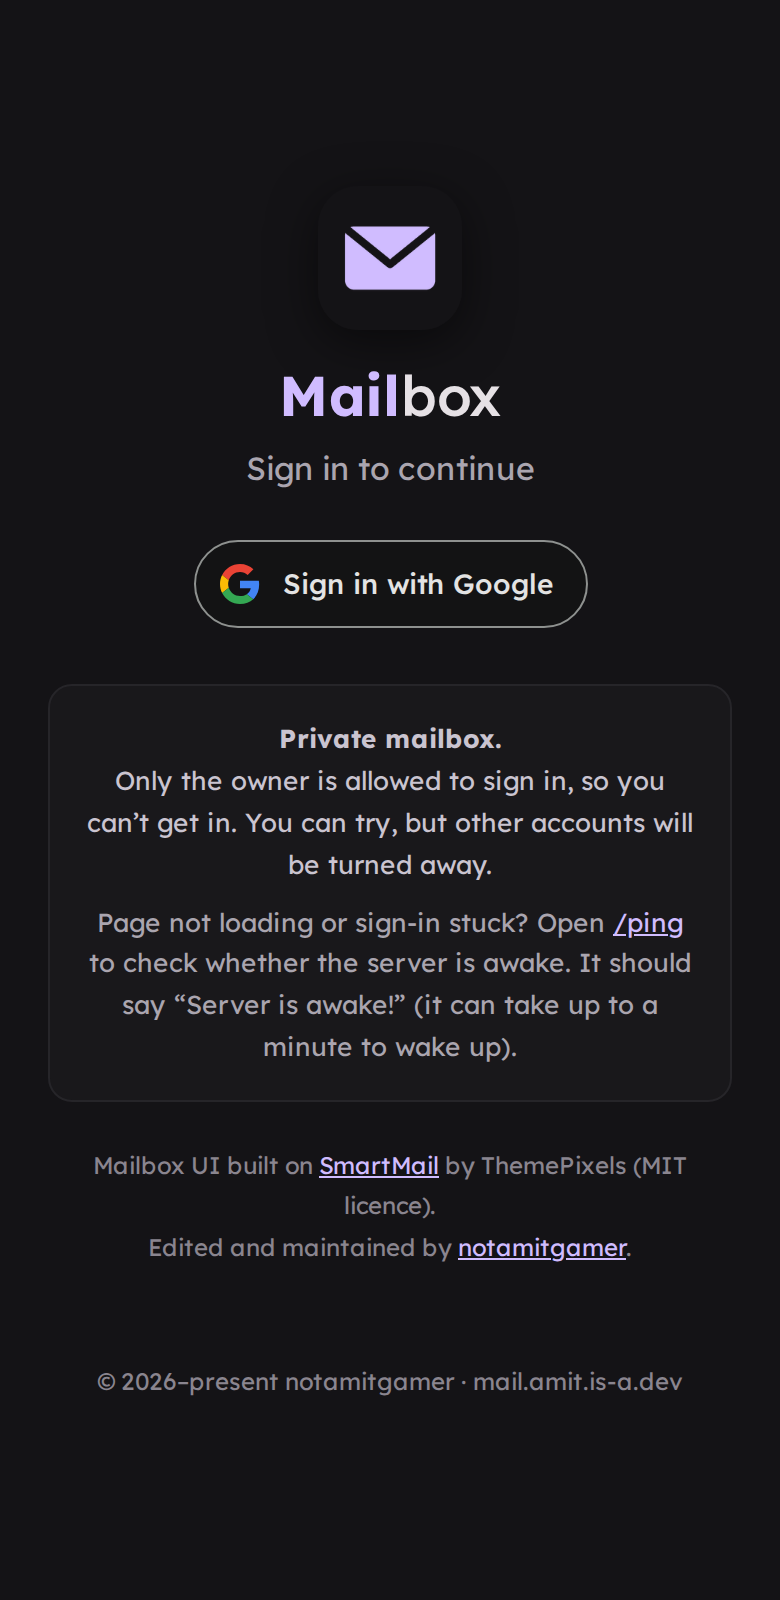
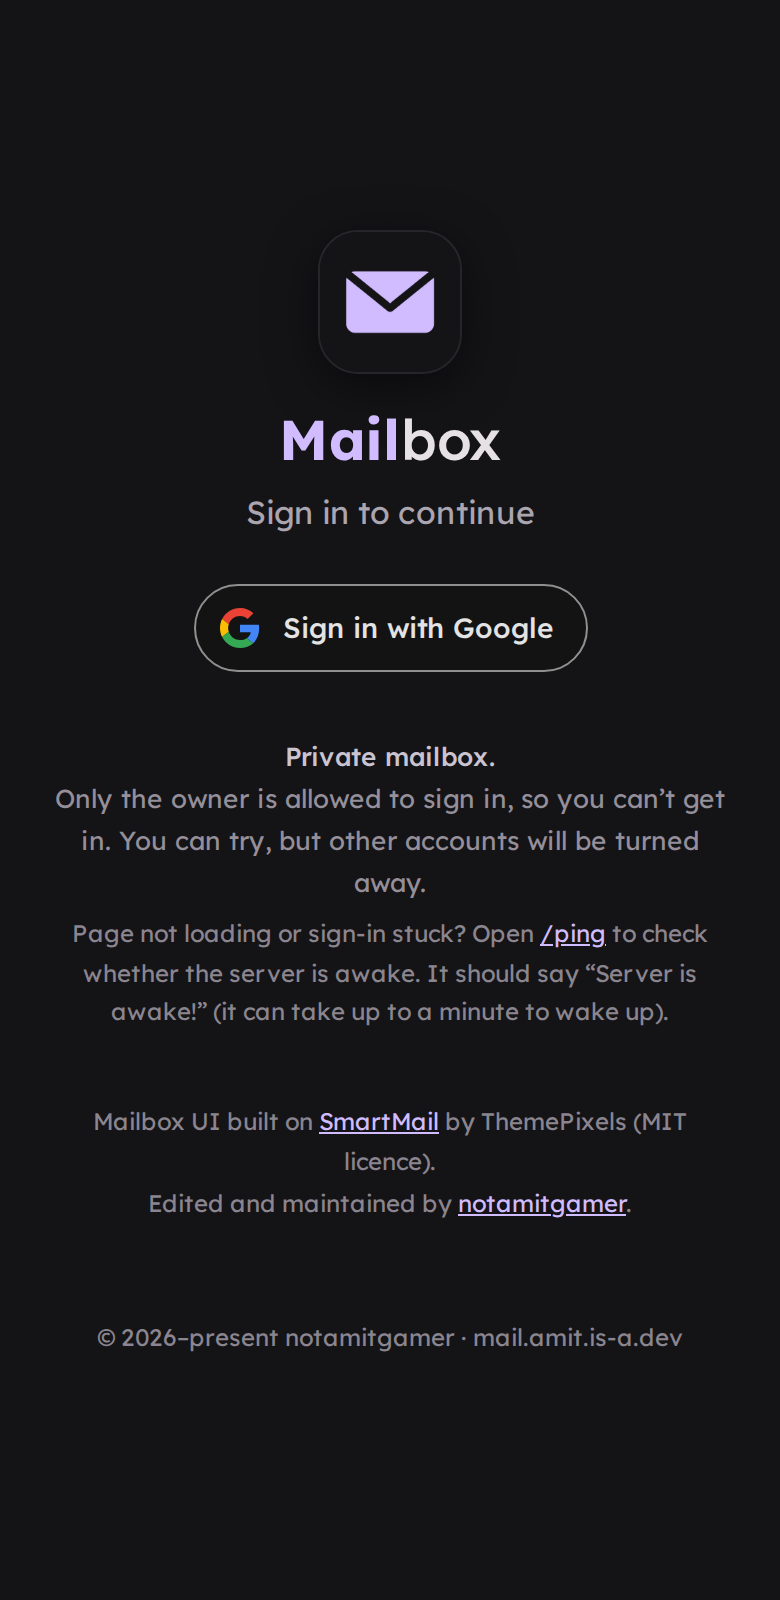
Sign-in: drop the notice box, plain minimal text

diff --git a/public/assets/css/app.css b/public/assets/css/app.css
@@ -380,3 +380,8 @@ input[type="checkbox"] { accent-color: var(--peach); }
 .btn-google:active { background: #2a2b2d; }
 .btn-google.d-none { display: none; }
 .signin-logo { border: 1px solid var(--surface0); }
+/* minimal notice: plain muted text, no box */
+.signin-note { padding: 0; background: none; border: 0; border-radius: 0; margin-top: 32px; font-size: 13px; line-height: 1.6; color: var(--overlay2); }
+.signin-note strong { color: var(--subtext1); font-weight: 500; }
+.signin-note p + p { margin-top: 6px; color: var(--overlay1); font-size: 12px; }
+.signin-credit { margin-top: 36px; }
